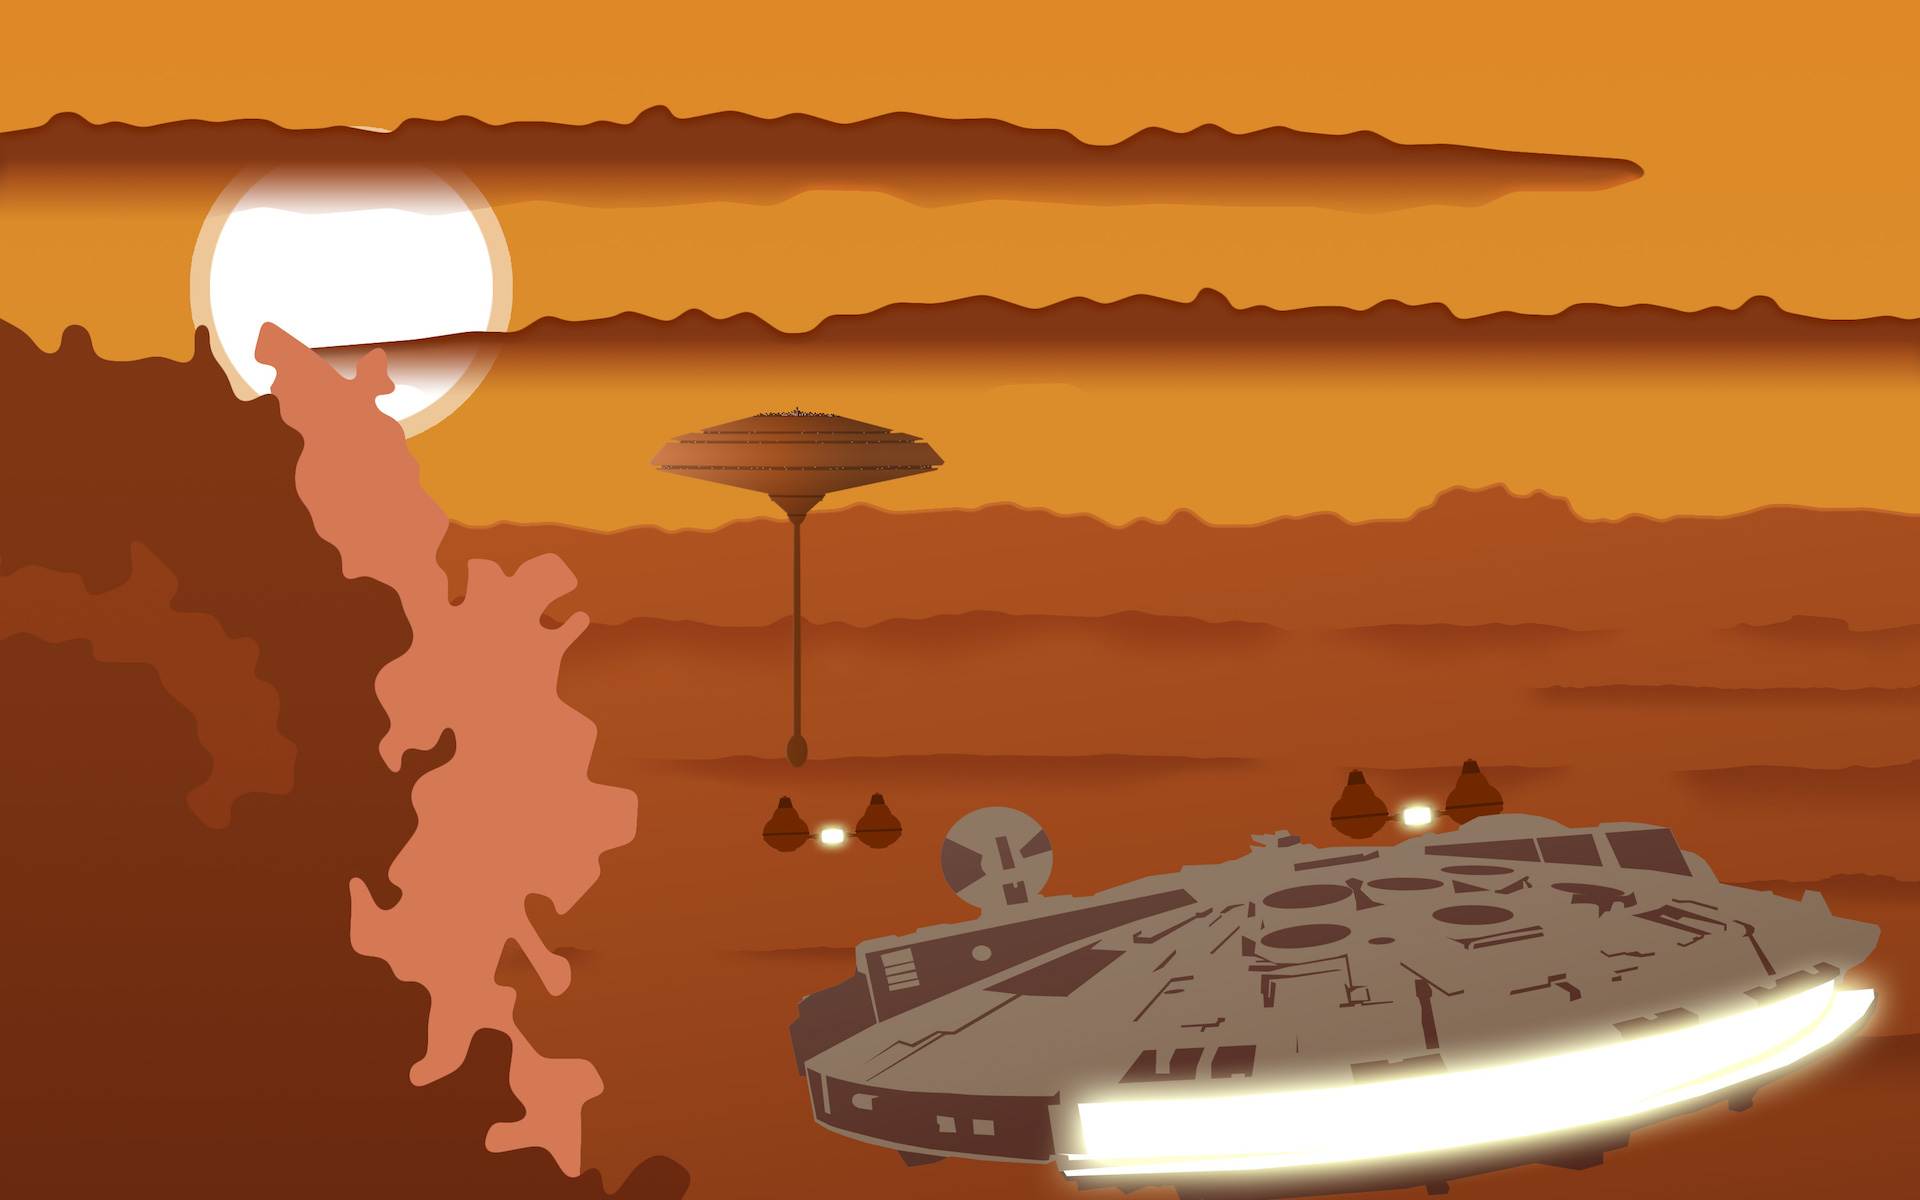
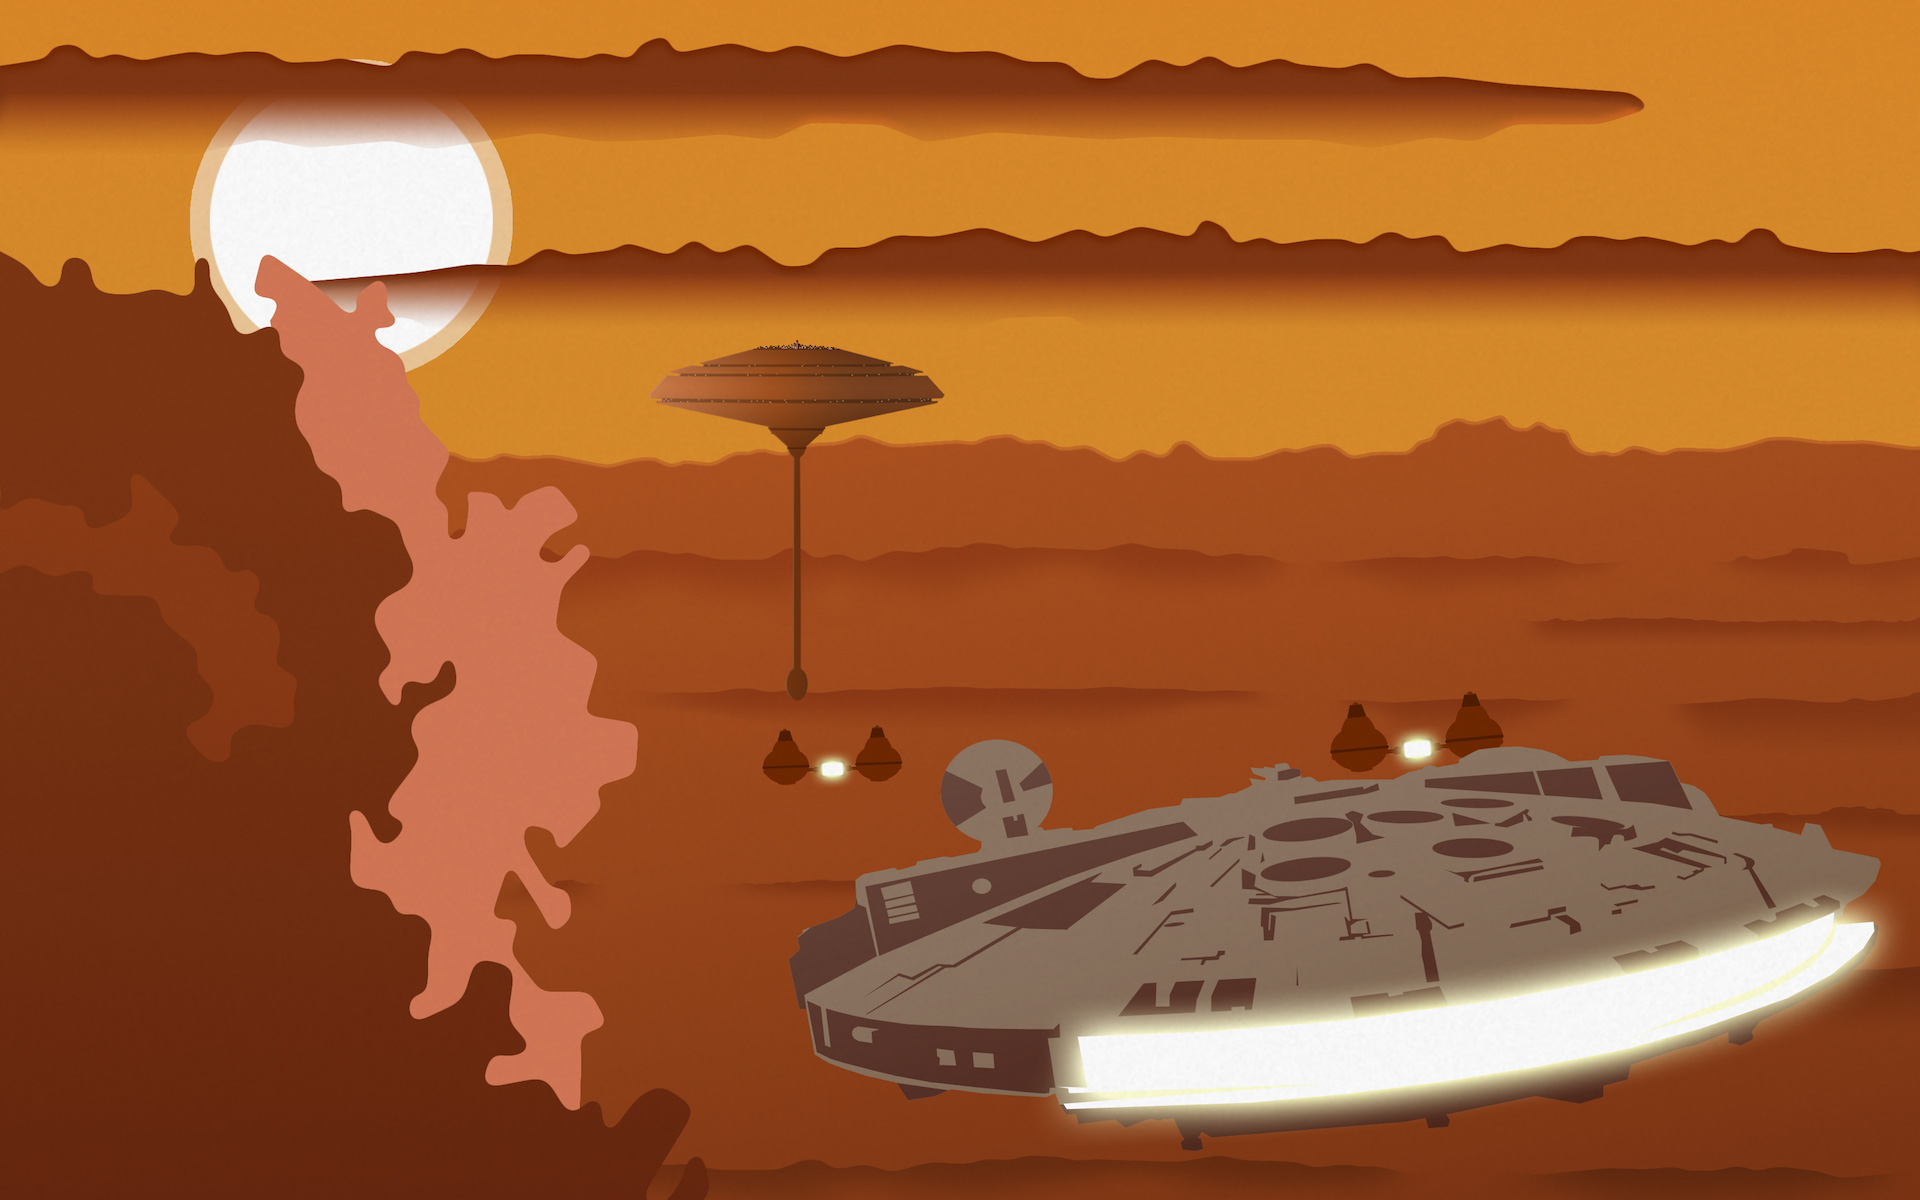
site updated

diff --git a/_layouts/poster.html b/_layouts/poster.html
@@ -8,21 +8,21 @@ language: en
 
 
 <head>
-  <title>Minimalist Star Wars Posters by Max Melzer</title>
+  <title>Star Wars Vector Art by Max Melzer</title>
   <meta name="keywords" content="Sci-Fi, Poster, Wallpaper, Movie, Pop-art, Art Deco, Star Wars, Force Awakens">
   <meta name="author" content="Max Melzer">
   <meta name="description" content="A collection of high-resolution images based on classic movie scenes. Looks great on a wall or as desktop wallpaper.">
   <meta charset="UTF-8">
   <meta name="viewport" content="width=device-width, initial-scale=1">
 
-  <meta property="og:title"              content="Sci-Fi Art Deco Posters" />
+  <meta property="og:title"              content="Sci-Fi Vector Art Posters" />
   <meta property="og:description"        content="A collection of high-resolution images based on classic movie scenes. Looks great on a wall or as desktop wallpaper." />
   <meta property="og:image"              content="http://www.moehrenzahn.de/poster/images/preview.jpg" />
 
   <meta name="twitter:card" content="summary_large_image">
   <meta name="twitter:site" content="@moehrenzahn">
   <meta name="twitter:creator" content="@_maxmelzer">
-  <meta name="twitter:title" content="Sci-Fi Art Deco Posters">
+  <meta name="twitter:title" content="Sci-Fi Vector Art Posters">
   <meta name="twitter:description" content="A collection of high-resolution images based on classic movie scenes. Looks great on a wall or as desktop wallpaper.">
   <meta name="twitter:image" content="http://www.moehrenzahn.de/poster/images/preview.jpg">
 
@@ -58,7 +58,7 @@ language: en
       height: 700px;
       height: 90vh;
       margin-bottom: 3em;
-      background-image: url(/poster/images/wallpaper/ROTJ-Endor-Moon.jpg);
+      background-image: url(/poster/images/notext/ROTJ-Hangar.jpg);
       background-position: center;
       background-size: cover;
     }
@@ -67,6 +67,7 @@ language: en
       font-family: 'Oswald', sans-serif;
       font-size: 3.5em;
       padding-top: 30vh;
+      text-shadow: 0 0 5px black;
     }
     .description, .donate, .footer, .posters, .shares {
       font-family: 'Oswald', sans-serif;
@@ -95,6 +96,11 @@ language: en
       color: black;
       background-color: rgb(250,240,240);
       transition: all .2s ease-out;
+      width: 100%;
+      height: 100%;
+      background-position: center;
+      background-size: cover;
+      margin: auto;
     }
 
     .poster-extra {
@@ -114,6 +120,7 @@ language: en
 
     .poster-container {
       display: inline-block;
+      vertical-align: top;
       height: 404px;
       width: 280px;
       position: relative;
@@ -151,7 +158,6 @@ language: en
     }
     .poster-container {
       margin: 3px;
-      height: auto;
       width: 45%;
     }
     .more-block {
@@ -182,8 +188,7 @@ language: en
   }
 
     .poster img {
-      width: 100%;
-      margin: auto;
+      
     }
 
     .donate {
@@ -225,7 +230,7 @@ language: en
     }
 
     .hoverbox-poster {
-      border: 5px solid rgba(255,240,240,0);
+      border: 5px solid rgba(255,240,240,1);
     }
     .poster-container:hover {
       z-index: 3;
@@ -285,7 +290,7 @@ language: en
   {% for image in site.static_files %}
   {% if image.path contains 'poster/images/preview/' %}
   <div class="poster-container">
-      <a class="hoverbox-poster poster" href="{{ site.baseurl }}{{ image.path | remove: "preview/" }}"><img src="{{ site.baseurl }}{{ image.path }}" alt="{{ image.path | remove: ".jpg" | remove: "/poster/images/preview/" | replace: "-", " " }}"></a>
+      <a class="hoverbox-poster poster" href="{{ site.baseurl }}{{ image.path | remove: "preview/" }}" style="background-image:url({{ site.baseurl }}{{ image.path }})"></a>
       <div class="poster-extra">
       <div class="poster-title">{{ image.path | remove: ".jpg" | remove: "/poster/images/preview/" | replace: "-", "&nbsp;" }}</div>
       <a class="poster-extra-link" href="{{ site.baseurl }}{{ image.path | replace: "preview/", "notext/" }}">Without text</a>
@@ -305,7 +310,9 @@ language: en
 <div style="margin:0 auto;max-width:700px;max-height:400px;">
 	<iframe style="width:100%;height:100%;" src="https://www.youtube-nocookie.com/embed/e7LKiIM8Sno?rel=0" frameborder="0" allowfullscreen></iframe>
 </div>
-
+<div style="margin:0 auto;max-width:700px;max-height:400px;">
+<iframe  style="width:100%;height:100%;" src="https://www.youtube-nocookie.com/embed/-Kt6VT7H3JQ?rel=0" frameborder="0" allowfullscreen></iframe>
+</div>
     <h2 class="description">Help me make more of these:</h2>
     <form action="https://www.paypal.com/cgi-bin/webscr" method="post" target="_top">
       <input type="hidden" name="cmd" value="_s-xclick">

diff --git a/ueber/index.md b/ueber/index.md
@@ -7,9 +7,7 @@ sharing: false
 
 Hi, mein Name ist Max Melzer. Ich bin Leipziger Theologiestudent und Chefredakteur von [theologiestudierende.de](http://www.theologiestudierende.de).
 
-Hier auf moehrenzahn.de schreibe ich über alles was mich interessiert, in der Hauptsache über Technisches, Theologisches und Politisches – manchmal auch [auf Englisch](/en/). Seit 2012 habe ich hier {{ site.posts | size }} Artikel veröffentlicht. {% for post in site.posts limit:1 %}
-Mein neuester Artikel ist <a href="{{ post.url }}">{{ post.title }}.</a>
-{% endfor %}
+Hier auf moehrenzahn.de schreibe ich über alles was mich interessiert, in der Hauptsache über Technisches, Theologisches und Politisches – manchmal auch [auf Englisch](/en/). Seit 2012 habe ich hier {{ site.posts | size }} Artikel veröffentlicht.
 
 
 ----

diff --git a/poster/index.md b/poster/index.md
@@ -1,6 +1,6 @@
 ---
 layout: poster
-title: Minimalist Star Wars Posters and Wallpapers
+title: STAR WARS Vector Art
 lang: en
 ---
 
